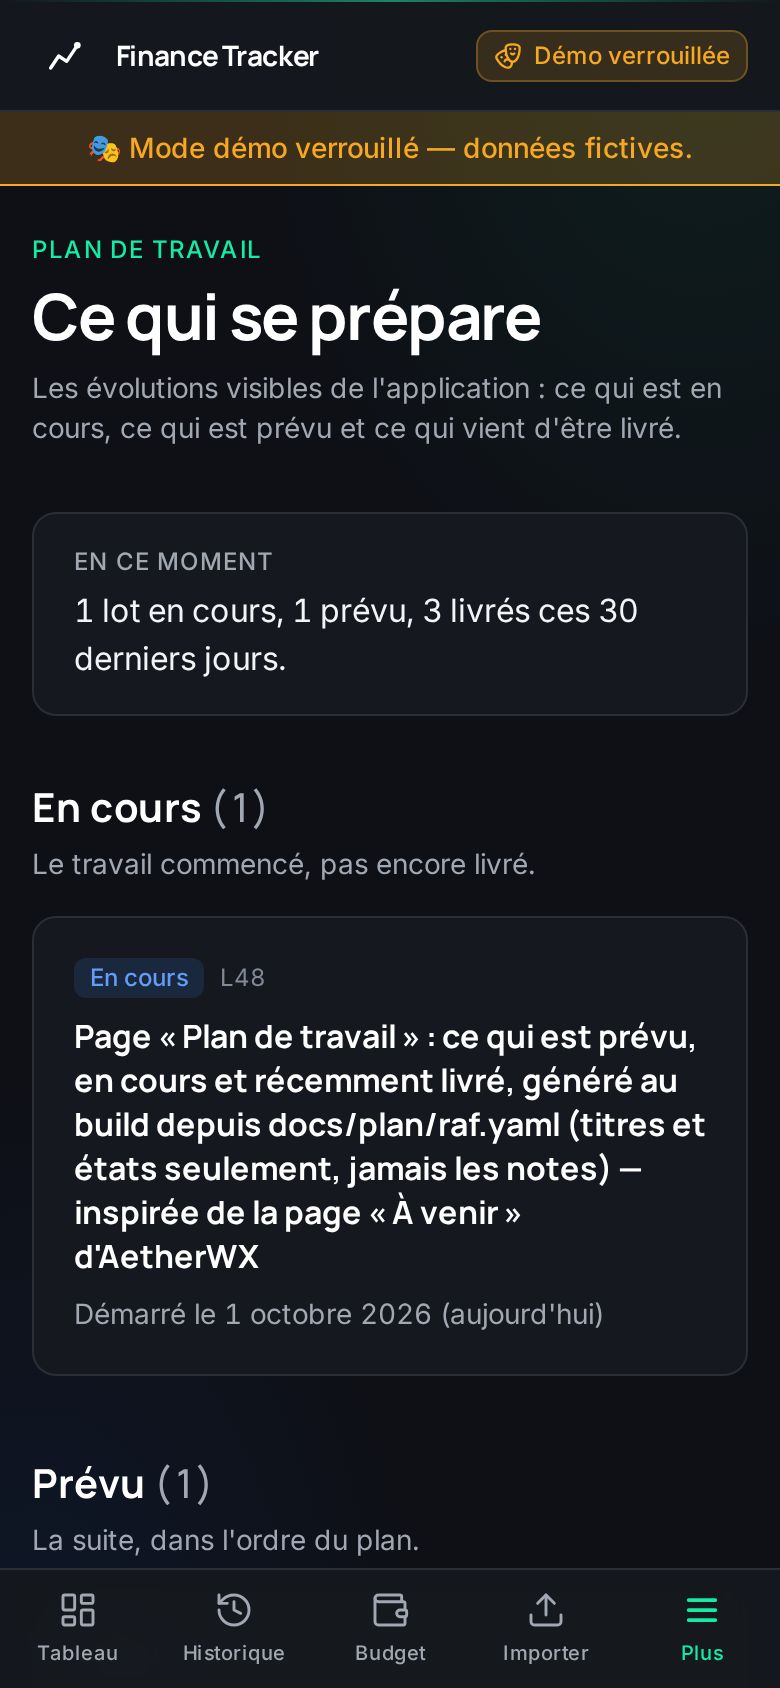
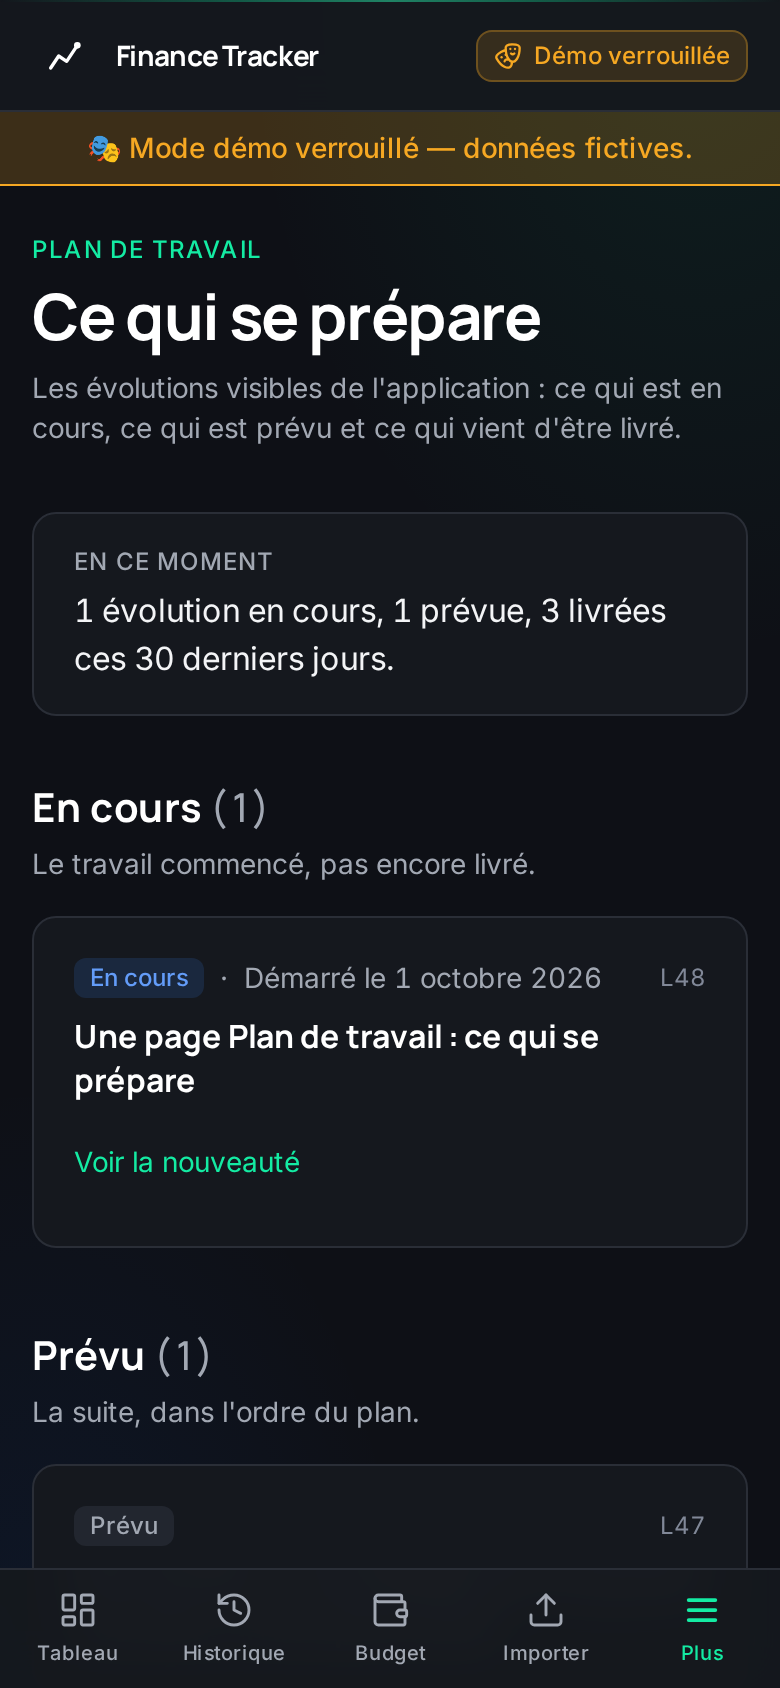
docs(L48): capture Nouveautés refaite (titres publics, carte commune)

diff --git a/frontend/public/nouveautes-data/index.html b/frontend/public/nouveautes-data/index.html
@@ -20,7 +20,7 @@ code { font-size: 13px; padding: 1px 4px; border-radius: 4px; background: var(--
 </style>
 </head>
 <body>
-<header><h1>finance-tracker — nouveautés</h1><p class="meta">Généré le 2026-10-01 23:05 par cadence</p></header>
+<header><h1>finance-tracker — nouveautés</h1><p class="meta">Généré le 2026-10-01 23:15 par cadence</p></header>
 <main>
 <article id="2026-10-01-une-page-plan-de-travail-ce-qui-se-prepare">
   <h2>Une page Plan de travail : ce qui se prépare</h2>
